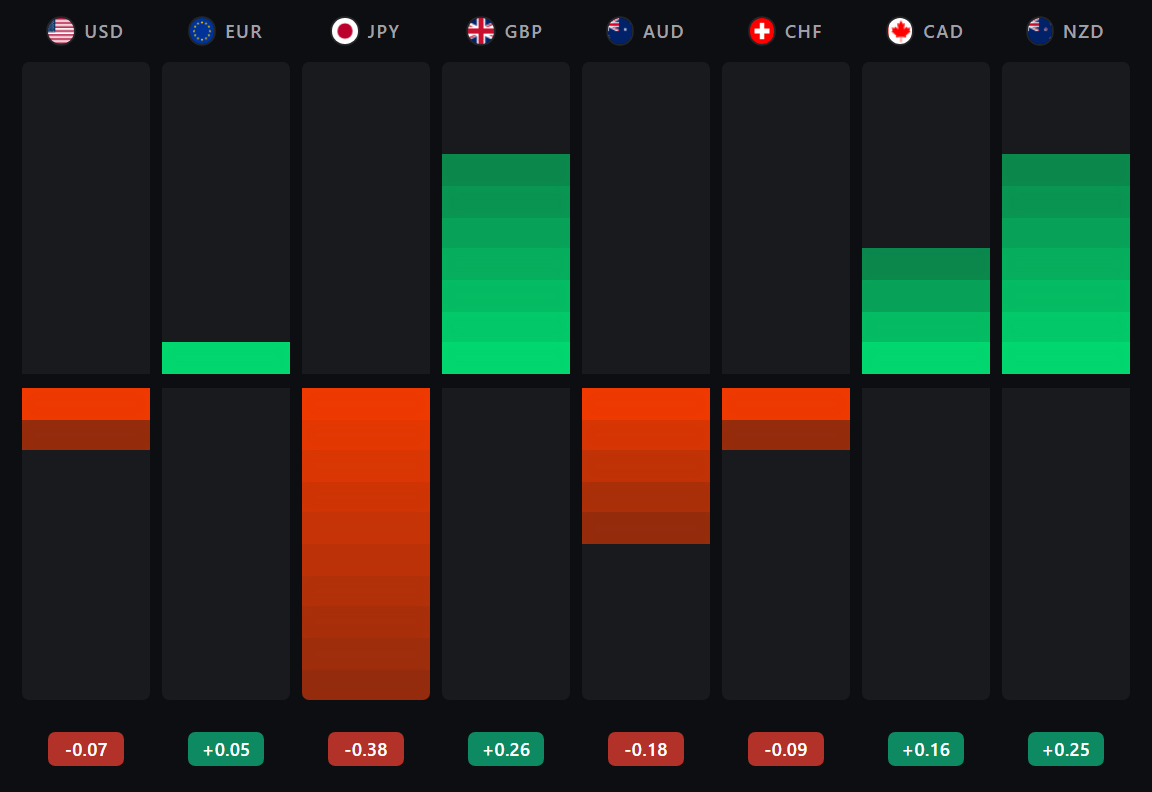
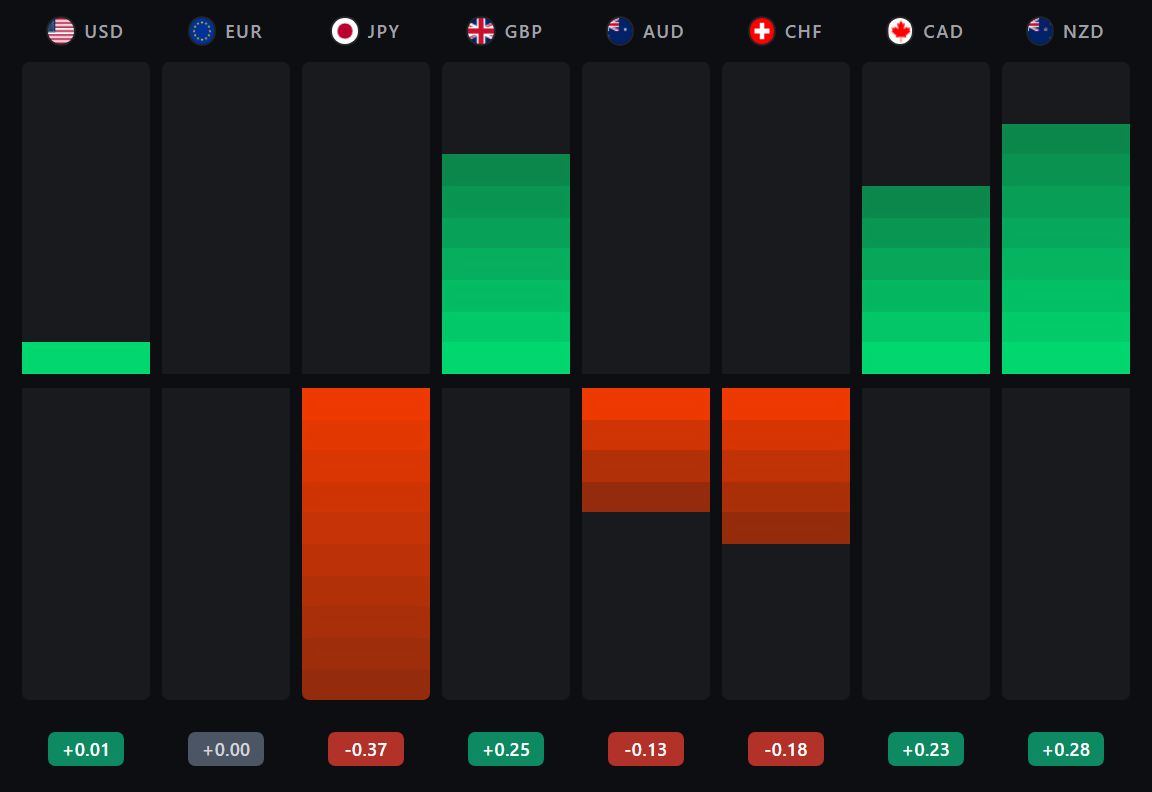
Le tag de paire s affiche enfin sur les VRAIES news (il n apparaissait jamais)
MESURE QUI CHANGE TOUT : sur les 219 news importantes du magasin de production, ZERO
ne porte un tag de devise. Les tags reels sont « Fed, Rates, Data », « BoJ, UK, Japan,
FX », la categorie « UK Data ». Or le tag de paire EXIGEAIT un tag de devise (« GBP »).
La fonctionnalite livree hier ne pouvait donc se declencher que sur l item de test que
j avais fabrique — jamais sur une news reelle. Le banc validait la fonction, pas son
declenchement : il lui passait le tag qu elle attendait.

Le marche expose se deduit maintenant de ce qui existe VRAIMENT, le TITRE d abord :
- une devise nommee dans le titre -> sa paire (UK CPI -> GBPUSD, demande de l user) ;
- deux devises dont le dollar -> le croisement au dollar (« Canadian Dollar gains on
  weaker US Dollar » -> USDCAD, et non EURUSD comme le donnait la version par tags) ;
- a defaut, les tags, mais seulement sur une publication ou une decision de banque
  centrale : ailleurs un tag pays n est qu un decor.

ET SURTOUT, QUAND SE TAIRE. Un tag faux est pire que pas de tag : il envoie lire une
reaction sans rapport avec la news. Aucune paire n est proposee si le sujet n est pas
le change (geopolitique, or, crypto, energie), si le titre ANNONCE une matiere premiere
alors que les tags n en disent rien (« Gold remains depressed amid hawkish Fed », tague
« Fed » seul, recevait un EURUSD), ou si le croisement n est pas affichable (EUR/GBP,
GBP/JPY).
[…]

diff --git a/public/js/app.js b/public/js/app.js
@@ -3142,8 +3142,71 @@ function buildNewsItem(item) {
   // devise ordinaires (« US », « EUR ») ne distinguerait plus rien et cesserait d'être un signal.
   // ⚠ Images et non émojis : Windows ne fournit AUCUN glyphe de drapeau de pays.
   const _drapImg = iso => '<img class="tag-flag" src="https://flagcdn.com/w20/' + iso + '.png" width="13" height="10" alt="" loading="lazy">';
+  // ── DE QUELLE DEVISE PARLE CETTE NEWS ? ────────────────────────────────────────────────────
+  // Mesuré en production le 20/08 : sur 219 news importantes du magasin, ZÉRO ne porte un tag
+  // devise (« GBP »). Les tags réels sont « Fed, Rates, Data », « BoJ, UK, Japan, FX », et la
+  // catégorie « UK Data ». Le tag de paire, qui exigeait un tag devise, ne pouvait donc JAMAIS
+  // apparaître sur une vraie news — seulement sur un item fabriqué pour le tester. On déduit
+  // désormais la devise de ce qui existe vraiment, par ordre de fiabilité décroissante.
+  const _DEV_BANQUE = { Fed: 'USD', FOMC: 'USD', ECB: 'EUR', BCE: 'EUR', BoE: 'GBP', BoJ: 'JPY',
+    SNB: 'CHF', BoC: 'CAD', RBA: 'AUD', RBNZ: 'NZD' };
+  const _DEV_PAYS = { US: 'USD', USA: 'USD', 'United States': 'USD', EU: 'EUR', Eurozone: 'EUR',
+    'Euro Area': 'EUR', Germany: 'EUR', UK: 'GBP', Britain: 'GBP', JP: 'JPY', Japan: 'JPY',
+    CH: 'CHF', Switzerland: 'CHF', Swiss: 'CHF', CA: 'CAD', Canada: 'CAD', Canadian: 'CAD',
+    AU: 'AUD', Australia: 'AUD', Australian: 'AUD', NZ: 'NZD', 'New Zealand': 'NZD' };
+  // Sujets dont le marché exposé n'est PAS une paire de devises. Mesuré sur 120 news importantes
+  // réelles : sans ce filtre, « South Korea defense minister… » et « Trump is squeezing Iran's oil
+  // sales » recevaient un tag EUR/USD, à cause du seul tag « US ». Un tag faux est pire que pas de
+  // tag : il envoie lire une réaction qui n'a aucun rapport avec la news.
+  const _HORS_FX = ['Geopolitical', 'Metals', 'Gold', 'Silver', 'Crypto', 'Energy & Power', 'Energy',
+    'Equities', 'Commodities', 'Oil'];
+  // Comment chaque devise se NOMME dans un titre. Le titre est plus fiable que les tags : il dit
+  // « Euro », « Canadian Dollar », « Yen », là où les tags se contentent d'un pays.
+  const _MOTS_DEV = [
+    ['CAD', /\b(canadian dollar|loonie|\bCAD\b|canadian|canada)\b/i],
+    ['AUD', /\b(australian dollar|aussie|\bAUD\b|australian|australia)\b/i],
+    ['NZD', /\b(new zealand dollar|kiwi|\bNZD\b|new zealand)\b/i],
+    ['JPY', /\b(yen|\bJPY\b|japanese|japan)\b/i],
+    ['GBP', /\b(pound|sterling|\bGBP\b|british|britain|\bUK\b)\b/i],
+    ['CHF', /\b(franc|\bCHF\b|swiss|switzerland)\b/i],
+    ['EUR', /\b(euro|\bEUR\b|eurozone|euro area|german|germany|dutch|netherlands|french|france|italian|italy|spanish|spain)\b/i],
+    ['USD', /\b(us dollar|u\.s\. dollar|\bUSD\b|greenback|dollar index|\bDXY\b)\b/i],
+  ];
+  // Le SUJET du titre, quand les tags mentent. Mesuré : « Gold remains depressed below $4,500 amid
+  // hawkish Fed » n'est taggé que « Fed » — aucun tag « Gold » — et recevait donc un EUR/USD. Une
+  // matière première en tête de titre est le sujet de la news, quel que soit son étiquetage. On
+  // tolère UN mot devant (« India Gold price today ») sans attraper « Canadian Dollar gains on
+  // higher oil prices », où la matière première n'est qu'une cause citée en fin de phrase.
+  const _SUJET_HORS_FX = /^\s*(?:[\w'’.]+\s+)?(gold|silver|bitcoin|ethereum|crypto|crude|brent|wti|oil|copper|platinum|palladium)\b/i;
+  const _deviseDeLaNews = () => {
+    const tousTags = (item.tags || []).concat([String(item.category || '')]);
+    if (tousTags.some(t => _HORS_FX.indexOf(String(t)) >= 0)) return null;
+    if (_SUJET_HORS_FX.test(String(item.headline || ''))) return null;
+    // 1) LE TITRE D'ABORD. Une seule devise nommée : c'est elle. Deux devises dont le dollar :
+    //    c'est le croisement au dollar, et donc la paire que le desk sait afficher — « Canadian
+    //    Dollar gains on weaker US Dollar » donne USD/CAD, pas EUR/USD.
+    const hl = String(item.headline || '');
+    const dansTitre = _MOTS_DEV.filter(m => m[1].test(hl)).map(m => m[0]);
+    if (dansTitre.length === 1) return dansTitre[0];
+    if (dansTitre.length === 2 && dansTitre.indexOf('USD') >= 0) return dansTitre.find(d => d !== 'USD');
+    // Trois devises ou plus, ou deux sans le dollar (EUR contre CAD) : le desk ne sait pas afficher
+    // ce croisement, et choisir pour le lecteur serait présenter un arbitrage comme un fait.
+    if (dansTitre.length >= 2) return null;
+    // 2) À DÉFAUT, les tags — mais seulement sur une vraie publication ou une décision de banque
+    //    centrale, jamais sur un commentaire de marché où le tag pays ne désigne qu'un décor.
+    const estEvenement = tousTags.some(t => /Data$/i.test(String(t)) || String(t) === 'Data' || _DEV_BANQUE[t]);
+    if (!estEvenement) return null;
+    const vues = new Set();
+    for (const t of tousTags.concat([String(item.category || '').replace(/\s+Data$/i, '')])) {
+      const d = _SBR_ISO[t] ? t : (_DEV_BANQUE[t] || _DEV_PAYS[t] || null);
+      if (d) vues.add(d);
+    }
+    return vues.size === 1 ? Array.from(vues)[0] : null;
+  };
+  let _pairePosee = false;
   const _marcheDepuisTag = (t, tag) => {
     if (!_PAIR_DE_DEVISE[tag] || !isRed || !expandEl || item._pair) return;
+    _pairePosee = true;
     const paire = _PAIR_DE_DEVISE[tag];
     t.style.cursor = 'pointer';
     t.classList.add('tag--marche', 'tag--pays');   // tag--pays : espacement du drapeau (voir style.css)
@@ -3178,6 +3241,20 @@ function buildNewsItem(item) {
     t.textContent = NEWS_TAG_FR[tag] || tag;
     _marcheDepuisTag(t, tag);   // news importante → devient la paire cliquable (2 drapeaux)
     tagsEl.appendChild(t);
+  }
+
+  // TAG DE PAIRE DÉDUIT : posé seulement si les boucles de tags n'en ont pas déjà produit un,
+  // sur une news importante, et quand la devise est identifiée SANS ambiguïté. Il ouvre la
+  // réaction du marché au clic, exactement comme le tag issu d'une devise explicite.
+  if (!_pairePosee && isRed && expandEl && !item._pair) {
+    const _dev = _deviseDeLaNews();
+    if (_dev && _PAIR_DE_DEVISE[_dev]) {
+      const t = document.createElement('span');
+      t.className = 'tag tag--default';
+      t.dataset.cat = _dev;
+      _marcheDepuisTag(t, _dev);
+      if (_pairePosee) tagsEl.appendChild(t);
+    }
   }
 
   // ── Badge Rumour : info non confirmée / bruit de marché ──────────────────────

diff --git a/server.js b/server.js
@@ -871,6 +871,7 @@ function _npCleanCfg(b) {
 // (id stable 'dtpu-AAAAMMJJ-slug', ts = date du déploiement, ton annonce produit, zéro jargon).
 // Le client les injecte en silence dans l'onglet DTP des alertes (fenêtre de fraîcheur 7 j côté panneau).
 const DTP_UPDATES = [
+  { id: 'dtpu-20260821-paire-deduite', ts: Date.UTC(2026, 7, 21, 3, 0), title: 'Le marche expose s affiche maintenant sur les vraies news', desc: 'Le tag de paire, qui ouvre la reaction du marche au clic, n apparaissait en pratique jamais : il attendait que la news porte un tag de devise, or aucune ne le fait. Le desk deduit desormais le marche expose du titre lui-meme : une inflation britannique donne GBPUSD, un chiffre australien AUDUSD, une decision de la Fed EURUSD. Quand deux devises sont citees, c est le croisement au dollar qui est propose. Et quand le marche expose n est pas une paire ou reste ambigu, comme sur une news geopolitique, sur l or ou sur un croisement euro contre livre, aucun tag n apparait : mieux vaut pas de graphique qu un graphique sans rapport.' },
   { id: 'dtpu-20260821-reaction-m1', ts: Date.UTC(2026, 7, 21, 2, 0), title: 'Réaction du marché : bougies à la minute, et on voit enfin l après', desc: 'Le graphique qui s ouvre au clic sur la devise d une news importante passe en bougies d une minute, sur une fenêtre serrée autour de la publication. Celle-ci se place au premier quart : les trois quarts restants montrent ce que le marché a fait APRÈS le chiffre, ce qui est précisément la question qu on se pose. Une échelle de prix apparaît à droite, avec le dernier cours encadré en vert ou en rouge selon le sens du mouvement depuis la publication. Sur une news plus ancienne, le graphique redescend automatiquement en 5 puis 15 minutes et annonce toujours l unité qu il affiche. Deux défauts corrigés au passage : les mèches qui dépassaient étaient rognées sans prévenir, donc le pic provoqué par la publication pouvait être amputé ; et l heure de publication s affichait sous le graphique au lieu de légender son trait.' },
   { id: 'dtpu-20260820-tags-drapeaux', ts: Date.UTC(2026, 7, 21, 1, 0), title: 'Le marché exposé s affiche en clair sur les news importantes', desc: 'Sur une publication importante, la devise concernée devient le marché le plus exposé et s affiche avec les drapeaux des deux pays et le nom de la paire, EURUSD par exemple. Un clic dessus ouvre la réaction du marché. Les drapeaux ne servent que là : ils signalent qu un graphique vous attend, plutôt que de décorer chaque tag.' },
   { id: 'dtpu-20260821-analyse-rapide', ts: Date.UTC(2026, 7, 21, 0, 30), title: 'L analyse d une publication arrive en quelques minutes au lieu d une heure', desc: 'Après un chiffre important, le desk attendait une heure entière avant de publier son analyse. Ce délai ne servait qu à laisser les dépêches arriver, ce qu une autre vérification faisait déjà mieux : le desk s abstient tant qu il n a pas assez de matière. L analyse paraît maintenant huit à treize minutes après la publication, quand elle vous est encore utile.' },

diff --git a/public/index.html b/public/index.html
@@ -30,7 +30,7 @@
        dépendre du preload du binaire. (Le déplacement de la fenêtre est géré par l'app 1.0.10+ : plus
        d'app-region:drag ici.) Web (hors Electron) : non affecté (l'UA ne contient pas « Electron »). -->
   <script>try{var _ua=navigator.userAgent||'';if(/Electron/i.test(_ua)){var _r=document.documentElement;_r.classList.add('dtp-desktop');_r.classList.add(/Mac OS X|Macintosh/i.test(_ua)?'dtp-mac':'dtp-win');}}catch(e){}</script>
-  <link rel="stylesheet" href="/css/style.css?v=20260820bbg776" />
+  <link rel="stylesheet" href="/css/style.css?v=20260820bbg777" />
 
   <!-- ══ FILET ANTI-BLOCAGE DU SPLASH, ARMÉ DÈS LE HEAD ═══════════════════════════════════════════
        Le filet vivait en FIN de <body> (ligne ~1900). Or le voile d'initialisation, lui, est déclaré
@@ -83,7 +83,7 @@
   <script defer src="https://unpkg.com/@joergdietrich/leaflet.terminator@1.1.0/L.Terminator.js"></script>
   <!-- PDF.js (Mozilla) : rendu PDF fiable sur mobile (iOS Safari inclus) via canvas ; l'iframe PDF ne s'affiche pas inline sur mobile -->
   <script defer src="https://cdnjs.cloudflare.com/ajax/libs/pdf.js/3.11.174/pdf.min.js"></script>
-  <script defer src="/js/noinspect.js?v=20260820bbg776"></script>
+  <script defer src="/js/noinspect.js?v=20260820bbg777"></script>
 </head>
 <body>
 
@@ -933,16 +933,16 @@
   </div>
 </div>
 
-<script defer src="/js/jspdf.umd.min.js?v=20260820bbg776"></script>
-<script defer src="/js/app.js?v=20260820bbg776"></script>
-<script defer src="/js/charts.js?v=20260820bbg776"></script>
-<script defer src="/js/sessionmap.js?v=20260820bbg776"></script>
+<script defer src="/js/jspdf.umd.min.js?v=20260820bbg777"></script>
+<script defer src="/js/app.js?v=20260820bbg777"></script>
+<script defer src="/js/charts.js?v=20260820bbg777"></script>
+<script defer src="/js/sessionmap.js?v=20260820bbg777"></script>
 <!-- MON DESK (widgets) : APRÈS app.js/charts.js, il consomme leurs globales (getNewsMaster,
      buildIsolatedStrength, disposeRoot…). `defer` garantit l'ordre d'exécution. -->
-<script defer src="/js/widgets.js?v=20260820bbg776"></script>
-<script defer src="/js/home.js?v=20260820bbg776"></script><!-- Espace d'accueil « workstation » (v1 admin volrod.dev, À CHAQUE CONNEXION) -->
-<script defer src="/js/i18n-dicts.js?v=20260820bbg776"></script>
-<script defer src="/js/i18n.js?v=20260820bbg776"></script>
+<script defer src="/js/widgets.js?v=20260820bbg777"></script>
+<script defer src="/js/home.js?v=20260820bbg777"></script><!-- Espace d'accueil « workstation » (v1 admin volrod.dev, À CHAQUE CONNEXION) -->
+<script defer src="/js/i18n-dicts.js?v=20260820bbg777"></script>
+<script defer src="/js/i18n.js?v=20260820bbg777"></script>
 
 <!-- ═══════════════════ PROFILE DRAWER ═══════════════════ -->
 <div class="pd-overlay" id="pd-overlay" onclick="pdClose()"></div>

diff --git a/public/admin.html b/public/admin.html
@@ -12,7 +12,7 @@
   <link rel="preconnect" href="https://fonts.gstatic.com" crossorigin />
   <!-- MÊMES POLICES QUE LE DESK (Inter + Inter Tight pour les titres) : cohérence d'identité visuelle -->
   <link href="https://fonts.googleapis.com/css2?family=Inter:wght@300;400;500;600;700&family=Inter+Tight:wght@500;600;700&display=swap" rel="stylesheet" />
-  <link rel="stylesheet" href="/css/admin.css?v=20260820bbg776" />
+  <link rel="stylesheet" href="/css/admin.css?v=20260820bbg777" />
   <!-- amCharts 5 : mêmes graphiques que le desk -->
   <script src="https://cdn.amcharts.com/lib/5/index.js"></script>
   <script src="https://cdn.amcharts.com/lib/5/xy.js"></script>
@@ -737,6 +737,6 @@
   </div>
 </div>
 
-<script src="/js/admin.js?v=20260820bbg776"></script>
+<script src="/js/admin.js?v=20260820bbg777"></script>
 </body>
 </html>

diff --git a/public/week-ahead.html b/public/week-ahead.html
@@ -154,7 +154,7 @@
     .wap-title{display:none}
   }
 </style>
-<script src="/js/noinspect.js?v=20260820bbg776"></script>
+<script src="/js/noinspect.js?v=20260820bbg777"></script>
 </head>
 <body>
   <header class="wap-top">

diff --git a/public/login.html b/public/login.html
@@ -274,7 +274,7 @@
       .lp-left-card { display: none; }
     }
   </style>
-  <script src="/js/noinspect.js?v=20260820bbg776"></script>
+  <script src="/js/noinspect.js?v=20260820bbg777"></script>
 </head>
 <body>
 
